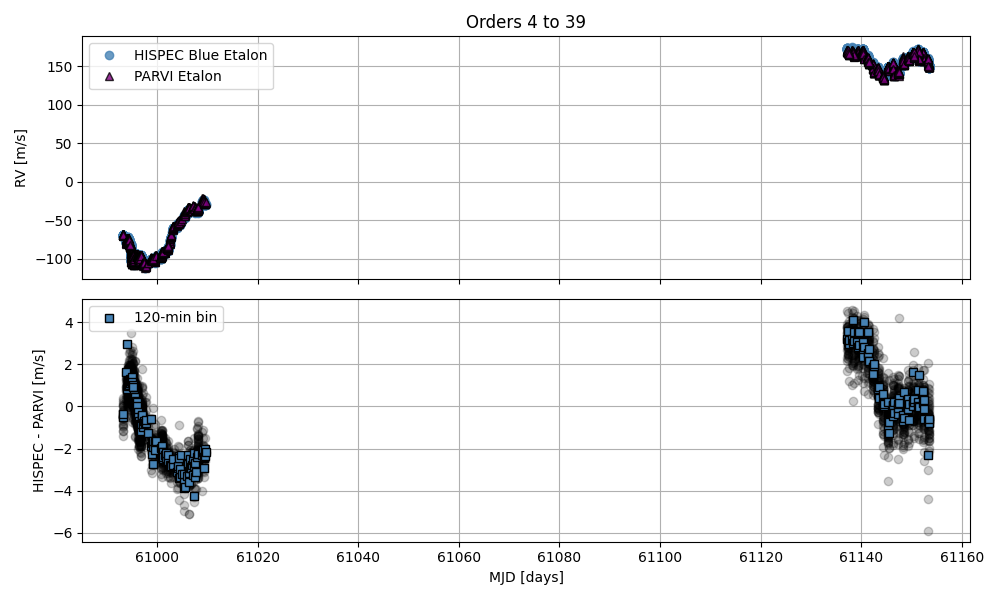
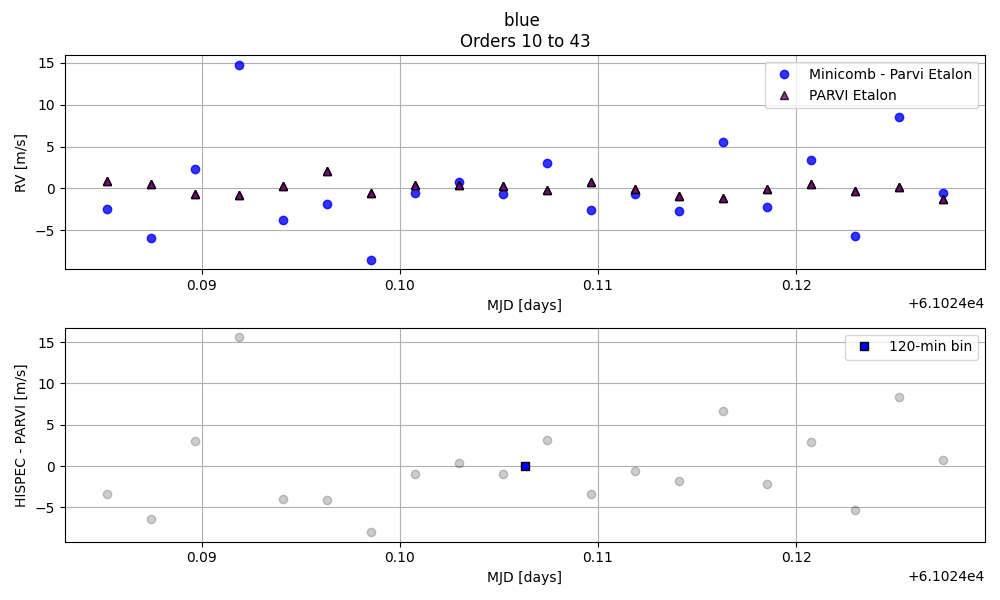
add minicomb

diff --git a/Parvi_drift_analysis/parvi_ccf_tools.py b/Parvi_drift_analysis/parvi_ccf_tools.py
@@ -45,7 +45,7 @@ def load_wavelength_array(filename = '/Altair_R02_20251017031228_deg0_sp.fits'):
 
     return waves_sci, waves_cal
 
-def make_master_mask(files, save_to_file=True, diagnostics_on=False, file_tag='parvi_blueetalon_ccf_mask'):
+def make_master_mask(files, save_to_file=True, diagnostics_on=False, file_tag='parvi_blueetalon_ccf_mask', wavelength_file='/Altair_R02_20251017031228_deg0_sp.fits'):
     """ Make mask for etalon for each order and optionally save to file
 
     input:
@@ -70,7 +70,7 @@ def make_master_mask(files, save_to_file=True, diagnostics_on=False, file_tag='p
     norders, npix = np.shape(sci_master)
 
     # load wavelength
-    w_sci, w_cal = load_wavelength_array()
+    w_sci, w_cal = load_wavelength_array(wavelength_file)
     
     # Peak finder time
     from scipy.signal import find_peaks
@@ -89,22 +89,40 @@ def make_master_mask(files, save_to_file=True, diagnostics_on=False, file_tag='p
     all_weights_cal ={}
     norm_factor=100000 # so weights are between 0 and 1 for easier reading
     for iorder in np.arange(norders):
+        if iorder==0: # for some reason order 0 doesnt have wave vals
+            continue
         # these peaking finding params were optimized
-        ipeaks, _ = find_peaks(sci_master[iorder], prominence=0.5*np.nanmedian(sci_master[iorder]), width=3, distance=10)
-        ipeaks_cal, _ = find_peaks(cal_master[iorder], prominence=0.5*np.nanmedian(cal_master[iorder]), width=3, distance=10)
+        ipeaks, _ = find_peaks(sci_master[iorder], prominence=10*np.nanmedian(sci_master[iorder]), width=3, distance=10)
+        ipeaks_cal, _ = find_peaks(cal_master[iorder], prominence=10*np.nanmedian(cal_master[iorder]), width=3, distance=10)
 
-        # save to dictionaries for each iorder
-        all_cens[iorder]    = w_sci[iorder][ipeaks]
-        all_weights[iorder] = np.sqrt(sci_master[iorder][ipeaks] / norm_factor) # sqrt to go to SNR scale
-        all_cens_cal[iorder]    = w_cal[iorder][ipeaks_cal]
-        all_weights_cal[iorder] = np.sqrt(cal_master[iorder][ipeaks_cal] / norm_factor) # sqrt to go to SNR scale
+        # skip this order if mean of peaks is <SNR=100
+        # Else save the centers and weights
+        if len(ipeaks) > 0:
+            if np.nanmedian(np.sqrt(sci_master[iorder][ipeaks])) < 100:
+                all_cens[iorder]    = []
+                all_weights[iorder] = []
+            else:
+                # save to dictionaries for each iorder
+                all_cens[iorder]    = w_sci[iorder][ipeaks]
+                weights = np.sqrt(np.maximum(sci_master[iorder][ipeaks], 0) / norm_factor)
+                weights[np.isnan(weights)] = 0
+                all_weights[iorder] = weights
+                if save_to_file:
+                    for i in np.arange(len(ipeaks)):
+                        fsci.write(f'{iorder},{all_cens[iorder][i]},{all_weights[iorder][i]}\n')
 
-        # save to file
-        if save_to_file:
-            for i in np.arange(len(ipeaks)):
-                fsci.write(f'{iorder},{all_cens[iorder][i]},{all_weights[iorder][i]}\n')
-            for i in np.arange(len(ipeaks_cal)):
-                fcal.write(f'{iorder},{all_cens_cal[iorder][i]},{all_weights_cal[iorder][i]}\n')
+        if len(ipeaks_cal) > 0:
+            if np.nanmedian(np.sqrt(cal_master[iorder][ipeaks_cal])) < 100:
+                all_cens_cal[iorder]    = []
+                all_weights_cal[iorder] = []
+            else:
+                all_cens_cal[iorder]    = w_cal[iorder][ipeaks_cal]
+                weights_cal = np.sqrt(np.maximum(cal_master[iorder][ipeaks_cal], 0) / norm_factor)
+                weights_cal[np.isnan(weights_cal)] = 0
+                all_weights_cal[iorder] = weights_cal
+                # save to file
+                for i in np.arange(len(ipeaks_cal)):
+                    fcal.write(f'{iorder},{all_cens_cal[iorder][i]},{all_weights_cal[iorder][i]}\n')
 
     # plot if need to diagnose peak finding issue
     if diagnostics_on:
@@ -154,15 +172,25 @@ def run_ccf(filename, mask_sci, mask_cal, iorder=10, wavelength_file='/Altair_R0
     if len(mask_sci_order['cen'].values) > 2:
         try:
             ccf_out_sci, _ = ccf.ccf_make(w_sci[iorder], sci[1][iorder], mask_sci_order['cen'].values, mask_wid*10,  mask_sci_order['weight'].values, velocity_loop, R=R,nsamp=nsamp)
-            ccf_out_cal, _ = ccf.ccf_make(w_cal[iorder], cal[1][iorder],  mask_cal_order['cen'].values, mask_wid*10,  mask_cal_order['weight'].values, velocity_loop, R=R,nsamp=nsamp)
-
-            # fit ccf for rv
             rv_fit_sci, v_fit, y_fit, xi2 = ccf.fit_gaussian_to_ccf_2(velocity_loop, 1 - ccf_out_sci/np.max(ccf_out_sci), 0.1, velocity_halfrange_to_fit=5.0,stddev_guess=1)
+        except:
+            rv_fit_sci = np.nan
+            print(f'error in CCF of sci for order {iorder}')
+    else:
+        rv_fit_sci = np.nan
+        #print(f'no mask for sci in order {iorder}')
+
+    # CAL  
+    if len(mask_cal_order['cen'].values) > 2:
+        try:
+            ccf_out_cal, _ = ccf.ccf_make(w_cal[iorder], cal[1][iorder], mask_cal_order['cen'].values, mask_wid*10,  mask_cal_order['weight'].values, velocity_loop, R=R,nsamp=nsamp)
             rv_fit_cal, _, _, _ = ccf.fit_gaussian_to_ccf_2(velocity_loop, 1 - ccf_out_cal/np.max(ccf_out_cal), 0.1, velocity_halfrange_to_fit=5.0,stddev_guess=1)
         except:
-            return np.nan, np.nan
+            rv_fit_cal = np.nan
+            print(f'error in CCF of cal for order {iorder}')
     else:
-        return np.nan, np.nan
-    
+        rv_fit_cal = np.nan
+        #print(f'no mask for cal in order {iorder}')
+
     return rv_fit_sci, rv_fit_cal
 

diff --git a/Parvi_drift_analysis/run_etalon_ccf.py b/Parvi_drift_analysis/run_etalon_ccf.py
@@ -15,30 +15,30 @@ warnings.filterwarnings('ignore', message='Mean of empty slice', category=Runtim
 
 ##############
 # RUN SETTINGS
-DATETAG_default = datetime.now(timezone.utc).strftime("%Y%m%d")
+DATETAG_default = '2026050*' #datetime.now(timezone.utc).strftime("%Y%m%d")
 
 CONFIGS = {
     'blue': {
-        'datapath':   '/Users/ashleybaker/Documents/HISPEC/AIT/CAL_LabData/EtalonBlue/Parvi_drift_analysis/PARVI_blueEtalon_data/EtalonEtalon/spectra/',
+        'datapath':   '/Users/ashleybaker/Documents/HISPEC/AIT/CAL_LabData/Etalon_analyses/Parvi_drift_analysis/PARVI_blueEtalon_data/EtalonEtalon/spectra/',
         'mask_sci':   'parvi_blueetalon_ccf_mask_sci.csv',
         'mask_cal':   'parvi_blueetalon_ccf_mask_cal.csv',
         'rv_csv':     'running_blueetalon_rvs.csv',
         'orders_csv': 'running_blueetalon_rvs_byorder.csv',
         'label':      'HISPEC Blue Etalon',
-        'wavelength_file': './PARVI_blueEtalon_data/Altair_R02_20251017031228_deg0_sp.fits',
+        'wavelength_file': '/Users/ashleybaker/Documents/HISPEC/AIT/CAL_LabData/Etalon_analyses/Parvi_drift_analysis/PARVI_redEtalon_data/Altair_R02_20251017031228_deg0_sp.fits',
         'output': 'outputs',
         'orders_to_run': np.arange(4,40)
     },
     'red': {
-        'datapath':   '/Users/ashleybaker/Documents/HISPEC/AIT/CAL_LabData/EtalonRed/PARVI_redEtalon_data/EtalonEtalon/spectra/',
+        'datapath':   '/Users/ashleybaker/Documents/HISPEC/AIT/CAL_LabData/Etalon_analyses/Parvi_drift_analysis/PARVI_redEtalon_data/EtalonEtalon/spectra/',
         'mask_sci':   'parvi_redetalon_ccf_mask_sci.csv',
         'mask_cal':   'parvi_redetalon_ccf_mask_cal.csv',
         'rv_csv':     'running_redetalon_rvs.csv',
         'orders_csv': 'running_redetalon_rvs_byorder.csv',
         'label':      'HISPEC Red Etalon',
-        'wavelength_file': './Altair_R02_20251017031228_deg0_sp.fits',
+        'wavelength_file': '/Users/ashleybaker/Documents/HISPEC/AIT/CAL_LabData/Etalon_analyses/Parvi_drift_analysis/PARVI_redEtalon_data/Altair_R02_20251017031228_deg0_sp.fits',
         'output': 'outputs',
-        'orders_to_run': np.arange(32,43)
+        'orders_to_run': np.arange(23,43)
     },
 }
 ##############
@@ -117,7 +117,7 @@ def plot_summary(all_rv_filename, orders_to_run, label='HISPEC Etalon', color='r
     ax2.legend()
     ax2.grid()
     fig.tight_layout()
-    fig.savefig(os.path.join(output_dir, f'running_{color}etalon_rvs.png'))
+    fig.savefig(all_rv_filename.replace('csv', 'png'))
 
 
 def plot_orders(all_rvorders_filename, orders_to_run, color='red', output_dir='.'):
@@ -174,14 +174,14 @@ def plot_orders(all_rvorders_filename, orders_to_run, color='red', output_dir='.
     plt.ylabel('Slope')
     plt.title('Per-order slope of RV residual vs. mean RV')
     plt.grid()
-    plt.savefig(os.path.join(output_dir, f'running_{color}etalon_rvs_byorder.png'))
+    plt.savefig(all_rvorders_filename.replace('csv','png'))
 
 
 if __name__=='__main__':
     # pick date to run!
     parser = argparse.ArgumentParser()
     parser.add_argument('--datetag', default=DATETAG_default)
-    parser.add_argument('--color', default='blue', choices=['blue', 'red'])
+    parser.add_argument('--color', default='red', choices=['blue', 'red'])
     args = parser.parse_args()
     DATETAG = args.datetag
     cfg = CONFIGS[args.color]
@@ -196,33 +196,17 @@ if __name__=='__main__':
     print(f'Loaded {nfiles} files for date {DATETAG} for the {args.color} etalon')
 
     # make/LOAD MASK for etalon - parvi etalon file type
-    #make_master_mask(files[0:50], save_to_file=True, diagnostics_on=True) # ONLY MAKE MASTER ONCE
+    make_master_mask(files[0:50], save_to_file=True, diagnostics_on=True, file_tag=cfg['mask_sci'].strip('_sci.csv'), wavelength_file=cfg['wavelength_file']) # ONLY MAKE MASTER ONCE
     mask_sci, mask_cal = load_master_mask(sci_file=cfg['mask_sci'], cal_file=cfg['mask_cal'])
     
     # RUN through all files and orders
-    parallelize='joblib' # joblib seems to do best!
-    if parallelize == 'no':
+    parallelize=True # joblib seems to do best!
+    if not parallelize:
         rvs = np.zeros((len(files), len(cfg['orders_to_run'])))
         rvs_cal = np.zeros((len(files), len(cfg['orders_to_run'])))
         for i, file in enumerate(files):
             rvs[i], rvs_cal[i] = run_ccf(file, mask_sci, mask_cal, iorder=43,wavelength_file=cfg['wavelength_file'])
-    elif parallelize == 'pool':
-        rvs = np.zeros((len(files), len(cfg['orders_to_run'])))
-        rvs_cal = np.zeros((len(files), len(cfg['orders_to_run'])))
-
-        from concurrent.futures import ThreadPoolExecutor, ProcessPoolExecutor, as_completed
-        for ifile, file in enumerate(files):
-            print(ifile)
-            # Use ProcessPoolExecutor instead if run_ccf is CPU-bound (pure Python/numpy)
-            #with ThreadPoolExecutor() as executor:
-            with ProcessPoolExecutor() as executor:
-                futures = {executor.submit(run_ccf, file, mask_sci, mask_cal, iorder=iorder,wavelength_file=cfg['wavelength_file']): i 
-                        for i, iorder in enumerate(cfg['orders_to_run'])}
-                
-                for future in as_completed(futures):
-                    i = futures[future]
-                    rvs[ifile,i], rvs_cal[ifile,i] = future.result()
-    elif parallelize =='joblib':
+    else:
         from joblib import Parallel, delayed
         from tqdm import tqdm
         if nfiles==0: pass